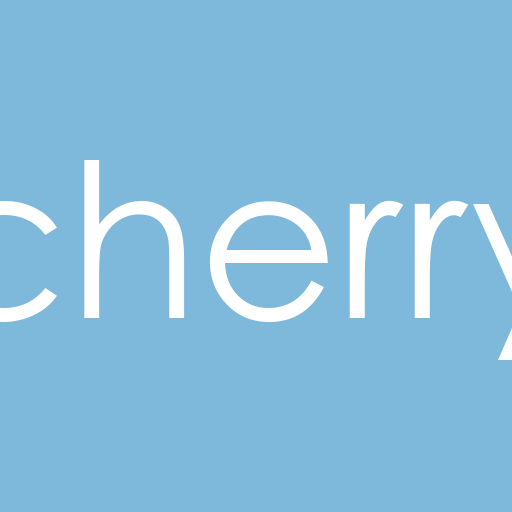
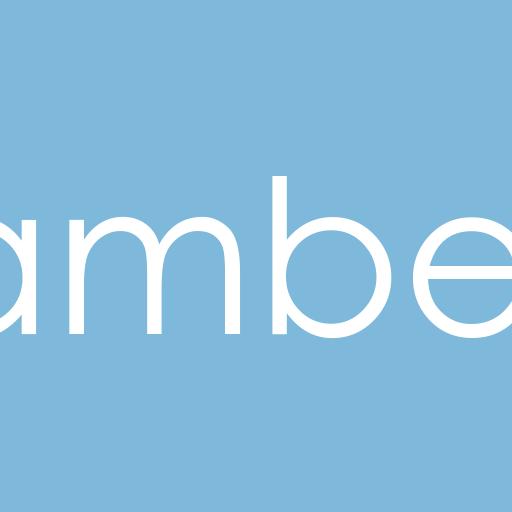
Rename to amber的工作台

Changed region(s): [[0.0, 0.3125, 1.0, 0.7188]]

diff --git a/index.html b/index.html
@@ -6,11 +6,11 @@
 <meta name="theme-color" content="#7EB8DA">
 <meta name="apple-mobile-web-app-capable" content="yes">
 <meta name="apple-mobile-web-app-status-bar-style" content="default">
-<meta name="apple-mobile-web-app-title" content="cherry的工作台">
+<meta name="apple-mobile-web-app-title" content="amber的工作台">
 <link rel="icon" href="/icons/icon-48x48.png">
 <link rel="apple-touch-icon" href="/icons/icon-192x192.png">
 <link rel="manifest" href="/manifest.json">
-<title>cherry的工作台</title>
+<title>amber的工作台</title>
 <style>
 /* ===== Reset & Base ===== */
 *,*::before,*::after{box-sizing:border-box;margin:0;padding:0}
@@ -336,8 +336,8 @@ body{
 <!-- ===== Header ===== -->
 <header class="header">
   <div class="header-left">
-    <div class="app-icon">cherry</div>
-    <span class="app-title">cherry的工作台</span>
+    <div class="app-icon">amber</div>
+    <span class="app-title">amber的工作台</span>
   </div>
   <div class="header-right">
     <div class="sync-status offline" id="syncStatus" title="连接状态">
@@ -408,7 +408,7 @@ body{
 <div class="widget-overlay" id="widgetOverlay"></div>
 <div class="widget-panel" id="widgetPanel">
   <div class="widget-header">
-    <h3>cherry 挂件</h3>
+    <h3>amber 挂件</h3>
     <button class="widget-close" id="btnWidgetClose">✕</button>
   </div>
   <div class="widget-clock">
@@ -453,7 +453,7 @@ body{
 
 <script>
 // ============================================================
-// cherry的工作台 - 主应用逻辑
+// amber的工作台 - 主应用逻辑
 // ============================================================
 
 // --- DOM Refs ---
@@ -528,7 +528,7 @@ function registerSW() {
 // --- Config ---
 function loadConfig() {
   try {
-    const saved = localStorage.getItem('cherry_config');
+    const saved = localStorage.getItem('amber_config');
     if (saved) {
       supabaseConfig = JSON.parse(saved);
       supabaseUrl.value = supabaseConfig.url || '';
@@ -542,7 +542,7 @@ function saveConfig() {
     url: supabaseUrl.value.trim(),
     key: supabaseKey.value.trim()
   };
-  localStorage.setItem('cherry_config', JSON.stringify(supabaseConfig));
+  localStorage.setItem('amber_config', JSON.stringify(supabaseConfig));
   initSupabase();
 }
 
@@ -599,7 +599,7 @@ async function pullFromCloud() {
     const { data: cloudTodos } = await supabase.from('todos').select('*').order('created_at', { ascending: true });
     if (cloudTodos && cloudTodos.length > 0) {
       // Merge: cloud wins if newer
-      const localTodos = JSON.parse(localStorage.getItem('cherry_todos') || '[]');
+      const localTodos = JSON.parse(localStorage.getItem('amber_todos') || '[]');
       const merged = mergeData(localTodos, cloudTodos, 'id');
       todos = merged.map(t => ({ id: t.id, text: t.text, done: t.done, created_at: t.created_at }));
       saveTodos();
@@ -608,7 +608,7 @@ async function pullFromCloud() {
     // Pull links
     const { data: cloudLinks } = await supabase.from('links').select('*').order('created_at', { ascending: true });
     if (cloudLinks && cloudLinks.length > 0) {
-      const localLinks = JSON.parse(localStorage.getItem('cherry_links') || '[]');
+      const localLinks = JSON.parse(localStorage.getItem('amber_links') || '[]');
       const merged = mergeData(localLinks, cloudLinks, 'id');
       links = merged.map(l => ({ id: l.id, name: l.name, url: l.url, created_at: l.created_at }));
       saveLinks();
@@ -617,7 +617,7 @@ async function pullFromCloud() {
     // Pull note
     const { data: cloudNotes } = await supabase.from('notes').select('*').order('updated_at', { ascending: false }).limit(1);
     if (cloudNotes && cloudNotes.length > 0) {
-      const localNote = JSON.parse(localStorage.getItem('cherry_note') || '{"content":"","updated_at":0}');
+      const localNote = JSON.parse(localStorage.getItem('amber_note') || '{"content":"","updated_at":0}');
       if (new Date(cloudNotes[0].updated_at).getTime() > localNote.updated_at) {
         noteContent = cloudNotes[0].content || '';
         noteArea.value = noteContent;
@@ -655,27 +655,27 @@ async function pushToCloud(table, data) {
 // --- Local Data ---
 function loadLocalData() {
   try {
-    todos = JSON.parse(localStorage.getItem('cherry_todos') || '[]');
+    todos = JSON.parse(localStorage.getItem('amber_todos') || '[]');
   } catch (e) { todos = []; }
   try {
-    links = JSON.parse(localStorage.getItem('cherry_links') || '[]');
+    links = JSON.parse(localStorage.getItem('amber_links') || '[]');
   } catch (e) { links = []; }
   try {
-    const noteData = JSON.parse(localStorage.getItem('cherry_note') || '{"content":"","updated_at":0}');
+    const noteData = JSON.parse(localStorage.getItem('amber_note') || '{"content":"","updated_at":0}');
     noteContent = noteData.content || '';
     noteArea.value = noteContent;
   } catch (e) { noteContent = ''; }
 }
 
 function saveTodos() {
-  localStorage.setItem('cherry_todos', JSON.stringify(todos));
+  localStorage.setItem('amber_todos', JSON.stringify(todos));
   if (isOnline) {
     pushToCloud('todos', todos.map(t => ({ ...t, updated_at: new Date().toISOString() })));
   }
 }
 
 function saveLinks() {
-  localStorage.setItem('cherry_links', JSON.stringify(links));
+  localStorage.setItem('amber_links', JSON.stringify(links));
   if (isOnline) {
     pushToCloud('links', links.map(l => ({ ...l, updated_at: new Date().toISOString() })));
   }
@@ -683,7 +683,7 @@ function saveLinks() {
 
 function saveNote() {
   const data = { content: noteContent, updated_at: Date.now() };
-  localStorage.setItem('cherry_note', JSON.stringify(data));
+  localStorage.setItem('amber_note', JSON.stringify(data));
   if (isOnline) {
     pushToCloud('notes', [{ id: 'default', content: noteContent, updated_at: new Date().toISOString() }]);
   }
@@ -947,9 +947,9 @@ $('#btnSettingsSave').addEventListener('click', () => {
 
 $('#btnClearData').addEventListener('click', () => {
   if (confirm('确定要清除所有本地数据吗？此操作不可恢复！')) {
-    localStorage.removeItem('cherry_todos');
-    localStorage.removeItem('cherry_links');
-    localStorage.removeItem('cherry_note');
+    localStorage.removeItem('amber_todos');
+    localStorage.removeItem('amber_links');
+    localStorage.removeItem('amber_note');
     todos = [];
     links = [];
     noteContent = '';

diff --git a/sw.js b/sw.js
@@ -1,4 +1,4 @@
-const CACHE_NAME = 'cherry-workbench-v2';
+const CACHE_NAME = 'amber-workbench-v1';
 const ASSETS_TO_CACHE = [
   '/',
   '/index.html',
